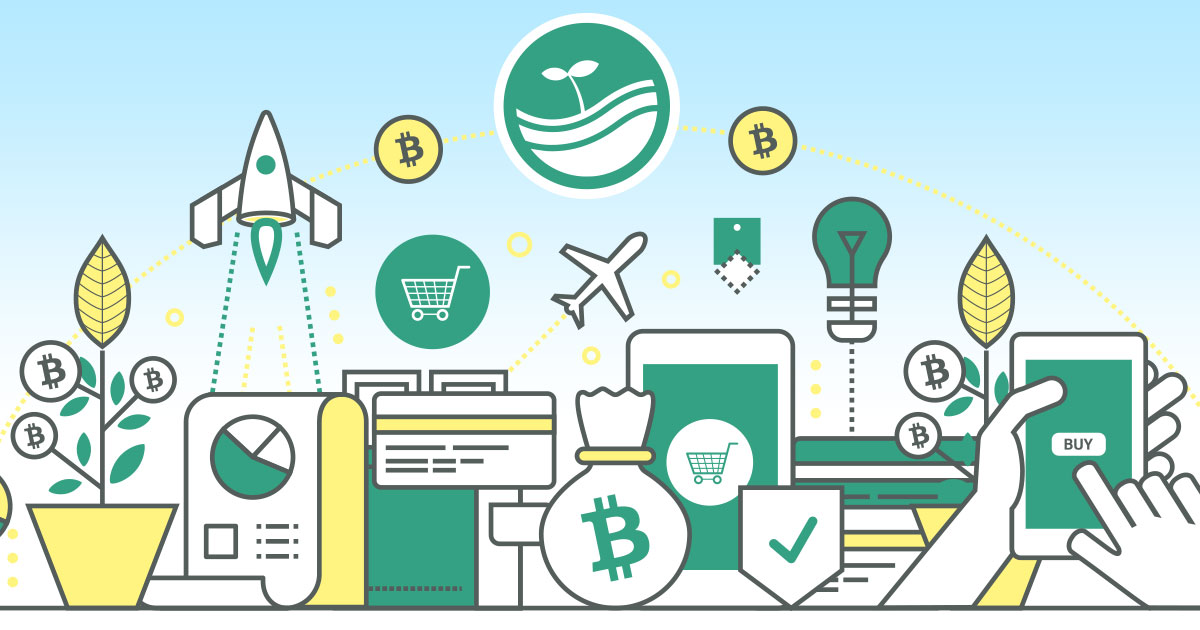
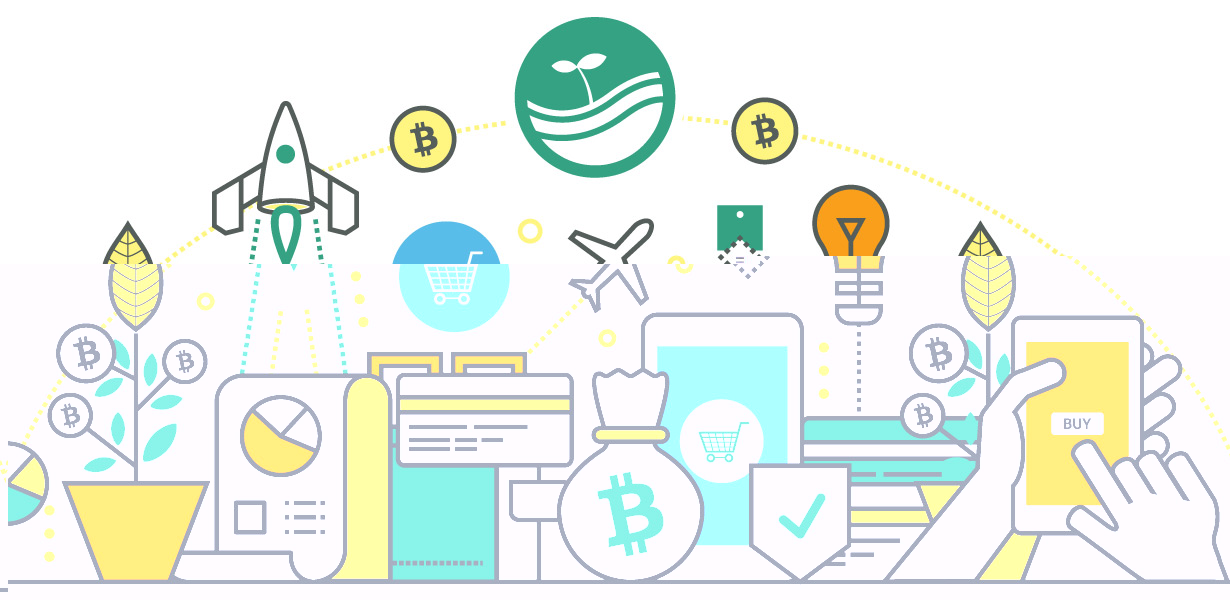
Updated hero images on all main pages

diff --git a/html/assets/css/home.css b/html/assets/css/home.css
@@ -11,6 +11,12 @@
   margin-top: 0;
   margin-bottom: 20px;
 }
+.homeHero-img {
+  margin: auto;
+  margin-top: 35px;
+  margin-bottom: 20px;
+  width: 100%;
+}
 .homeHero-lead {
   font-family: 'Montserrat', sans-serif;
   font-weight: 400;
@@ -25,10 +31,20 @@
   padding-bottom: 20px;
   text-align: center;
 }
-@media (min-width:768px) {
+@media (min-width: 550px) {
+  .homeHero-img {
+    margin-top: 15px;
+  }
+}
+@media (min-width: 768px) {
   .homeHero-title {
     font-size: 50px;
     margin-bottom: 20px;
+  }
+  .homeHero-img {
+    height: 309.469px;
+    margin-top: 20px;
+    margin-bottom: 35px;
   }
   .homeHero-lead {
     font-size: 30px;
@@ -42,6 +58,9 @@
   .homeHero-title {
     font-size: 60px;
   }
+  .homeHero-img {
+    height: 404.031px;
+  }
   .homeHero-lead {
     font-size: 30px;
     margin-bottom: 50px;
@@ -51,7 +70,11 @@
     margin: auto;
   }
 }
-
+@media (min-width: 1200px) {
+  .homeHero-img {
+    height: 490px;
+  }
+}
 
 /* Bitcoin Cash
 --------------------------------------------*/

diff --git a/html/assets/css/layout.css b/html/assets/css/layout.css
@@ -131,3 +131,22 @@ html, body {
   padding-right: 9999rem;
   /*z-index: -1;  */
 }
+
+
+/* Hero Images
+------------------------------------------------------------- */
+.heroImg {
+  margin: auto;
+  margin-bottom: 25px;
+  width: 100%;
+}
+@media (min-width: 768px) {
+  .heroImg { height: 221.047px; }
+}
+@media (min-width: 992px) {
+  .heroImg { height: 288.594px; }
+}
+@media (min-width: 1200px) {
+  .heroImg { height: 350px; }
+}
+

diff --git a/html/assets/css/volunteer.css b/html/assets/css/volunteer.css
@@ -5,11 +5,6 @@
   padding-top: 35px;
   padding-bottom: 35px;
 }
-.volunteerHero-img {
-  margin: auto;
-  margin-bottom: 25px;
-  width: 100%;
-}
 .volunteerHero-lead {
   font-family: 'Montserrat', sans-serif;
   font-weight: 400;

diff --git a/html/assets/css/proposal.css b/html/assets/css/proposal.css
@@ -5,11 +5,6 @@
   padding-top: 35px;
   padding-bottom: 35px;
 }
-.proposalHero-img {
-  margin: auto;
-  margin-bottom: 25px;
-  width: 100%;
-}
 .proposalHero-lead {
   font-family: 'Montserrat', sans-serif;
   font-weight: 400;

diff --git a/html/assets/css/donate.css b/html/assets/css/donate.css
@@ -5,11 +5,6 @@
   padding-top: 35px;
   padding-bottom: 35px;
 }
-.donateHero-img {
-  margin: auto;
-  margin-bottom: 25px;
-  width: 100%;
-}
 .donateHero-lead {
   font-family: 'Montserrat', sans-serif;
   font-weight: 400;

diff --git a/html/assets/css/about.css b/html/assets/css/about.css
@@ -5,11 +5,6 @@
   padding-top: 35px;
   padding-bottom: 35px;
 }
-.aboutHero-img {
-  margin: auto;
-  margin-bottom: 25px;
-  width: 100%;
-}
 .aboutHero-lead {
   font-family: 'Montserrat', sans-serif;
   font-weight: 400;

diff --git a/html/index.php b/html/index.php
@@ -24,12 +24,12 @@
                 <!-- Desktop -->
                 <source media="(min-width: 768px)"
                         srcset="<?= $config['img_dir']; ?>hero_home.jpg" />
-                <!-- Tablet -->
+                <!-- Tablet --><!--
                 <source media="(min-width: 550px)"
-                        srcset="<?= $config['img_dir']; ?>hero_tablet.png" />
+                        srcset="<?= $config['img_dir']; ?>hero_home_tablet.jpg" />-->
                 <!-- Mobile -->
-                <source srcset="<?= $config['img_dir']; ?>hero_tablet.png" />
-                <img src="<?= $config['img_dir']; ?>hero_home.jpg" class="img-responsive" style="width:100%;" />
+                <source srcset="<?= $config['img_dir']; ?>hero_home_tablet.jpg" />
+                <img src="<?= $config['img_dir']; ?>hero_home.jpg" class="img-responsive heroImg homeHero-img" />
               </picture>
               <h1 class="homeHero-title">The Bitcoin Cash Fund</h1>
               <p class="homeHero-lead">A community-driven, grassroots project to accelerate the adoption of Bitcoin Cash.</p>

diff --git a/html/proposal/index.php b/html/proposal/index.php
@@ -25,7 +25,7 @@
                     srcset="<?= $config['img_dir']; ?>hero_proposal.jpg" />
             <!-- Mobile -->
             <source srcset="<?= $config['img_dir']; ?>hero_proposal_mobile.jpg" />
-            <img src="<?= $config['img_dir']; ?>hero_proposal.jpg" class="img-responsive proposalHero-img" />
+            <img src="<?= $config['img_dir']; ?>hero_proposal.jpg" class="img-responsive heroImg" />
           </picture>
           <h1 class="proposalHero-heading">Have a brilliant marketing idea?</h1>
           <p class="proposalHero-lead">If you have an idea how to spread adoption of Bitcoin Cash, we'd like to help you fund it.</p>

diff --git a/html/volunteer/index.php b/html/volunteer/index.php
@@ -24,7 +24,7 @@
                     srcset="<?= $config['img_dir']; ?>hero_volunteer.jpg" />
             <!-- Mobile -->
             <source srcset="<?= $config['img_dir']; ?>hero_volunteer_mobile.jpg" />
-            <img src="<?= $config['img_dir']; ?>hero_volunteer.jpg" class="img-responsive volunteerHero-img" />
+            <img src="<?= $config['img_dir']; ?>hero_volunteer.jpg" class="img-responsive heroImg" />
           </picture>
           <h1 class="volunteerHero-heading">Ready to put your skills to use?</h1>
           <p class="volunteerHero-lead">We've got active projects right now that need the help of talented people like you.</p>

diff --git a/html/donate/index.php b/html/donate/index.php
@@ -24,7 +24,7 @@
                     srcset="<?= $config['img_dir']; ?>hero_donate.jpg" />
             <!-- Mobile -->
             <source srcset="<?= $config['img_dir']; ?>hero_donate_mobile.jpg" />
-            <img src="<?= $config['img_dir']; ?>hero_donate.jpg" class="img-responsive donateHero-img" />
+            <img src="<?= $config['img_dir']; ?>hero_donate.jpg" class="img-responsive heroImg" />
           </picture>
           <h1 class="donateHero-heading">A donation to the BCF is an investment in your future</h1>
           <p class="donateHero-lead">Widespread adoption of Bitcoin Cash will result in higher price.</p>

diff --git a/html/about/index.php b/html/about/index.php
@@ -24,7 +24,7 @@
                     srcset="<?= $config['img_dir']; ?>hero_about.jpg" />
             <!-- Mobile -->
             <source srcset="<?= $config['img_dir']; ?>hero_about_mobile.jpg" />
-            <img src="<?= $config['img_dir']; ?>hero_about.jpg" class="img-responsive aboutHero-img" />
+            <img src="<?= $config['img_dir']; ?>hero_about.jpg" class="img-responsive heroImg" />
           </picture>
           <h1 class="aboutHero-heading">We want the world using Bitcoin Cash</h1>
           <p class="aboutHero-lead">Which is why we're spreading the word about this legendary crypto currency.</p>
